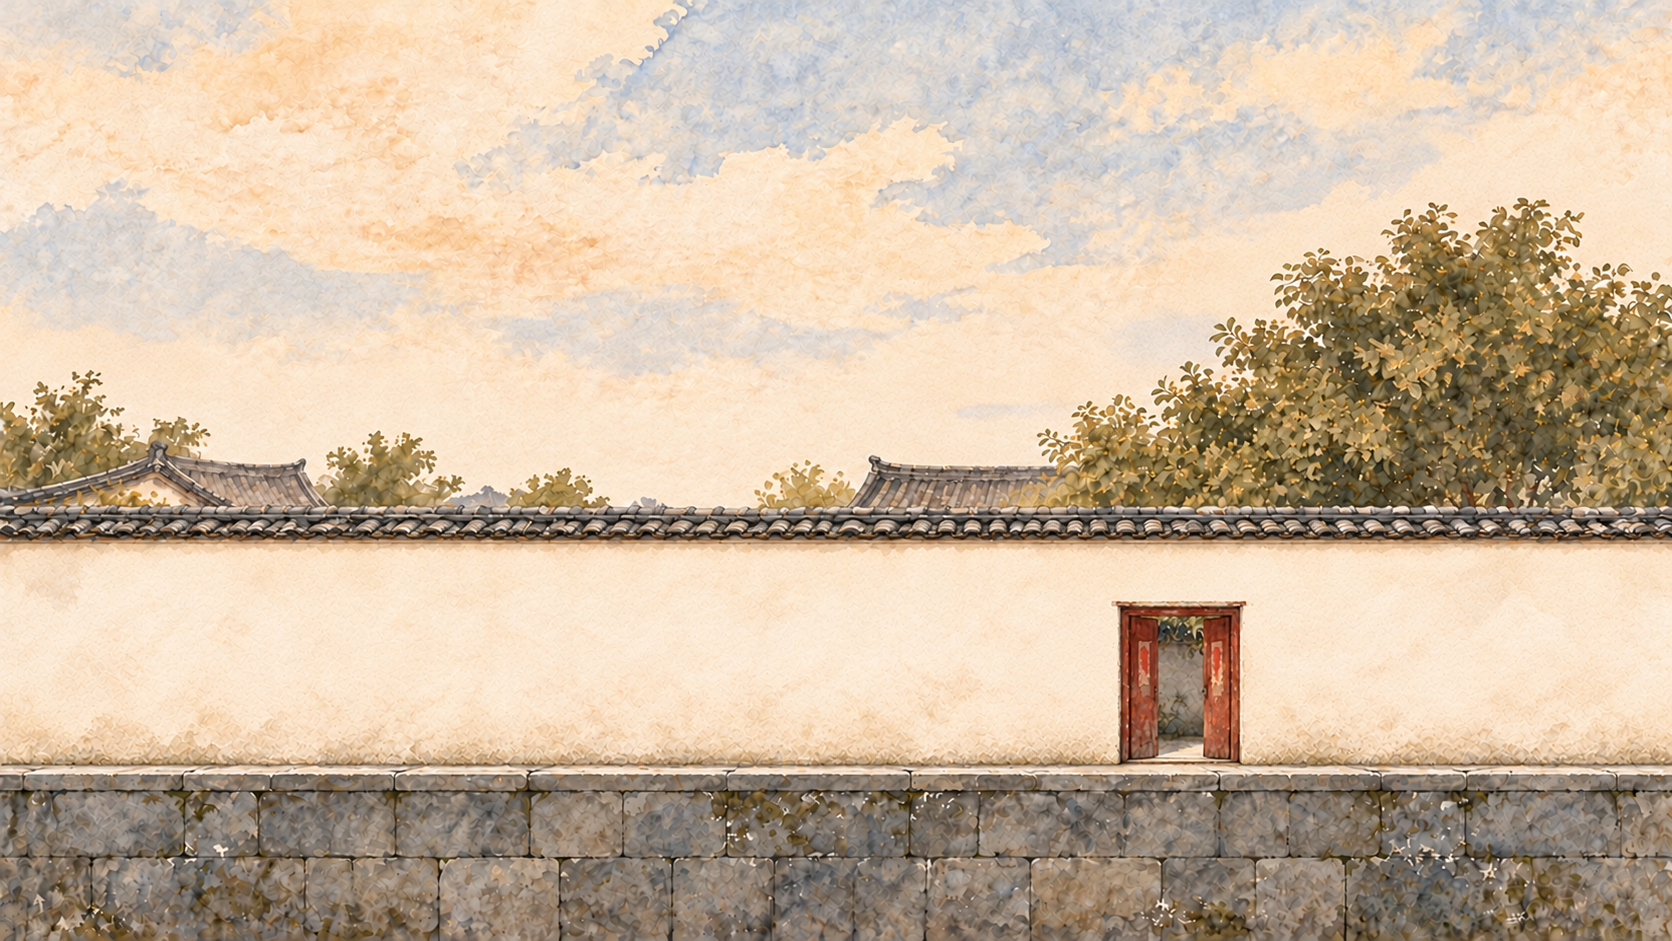
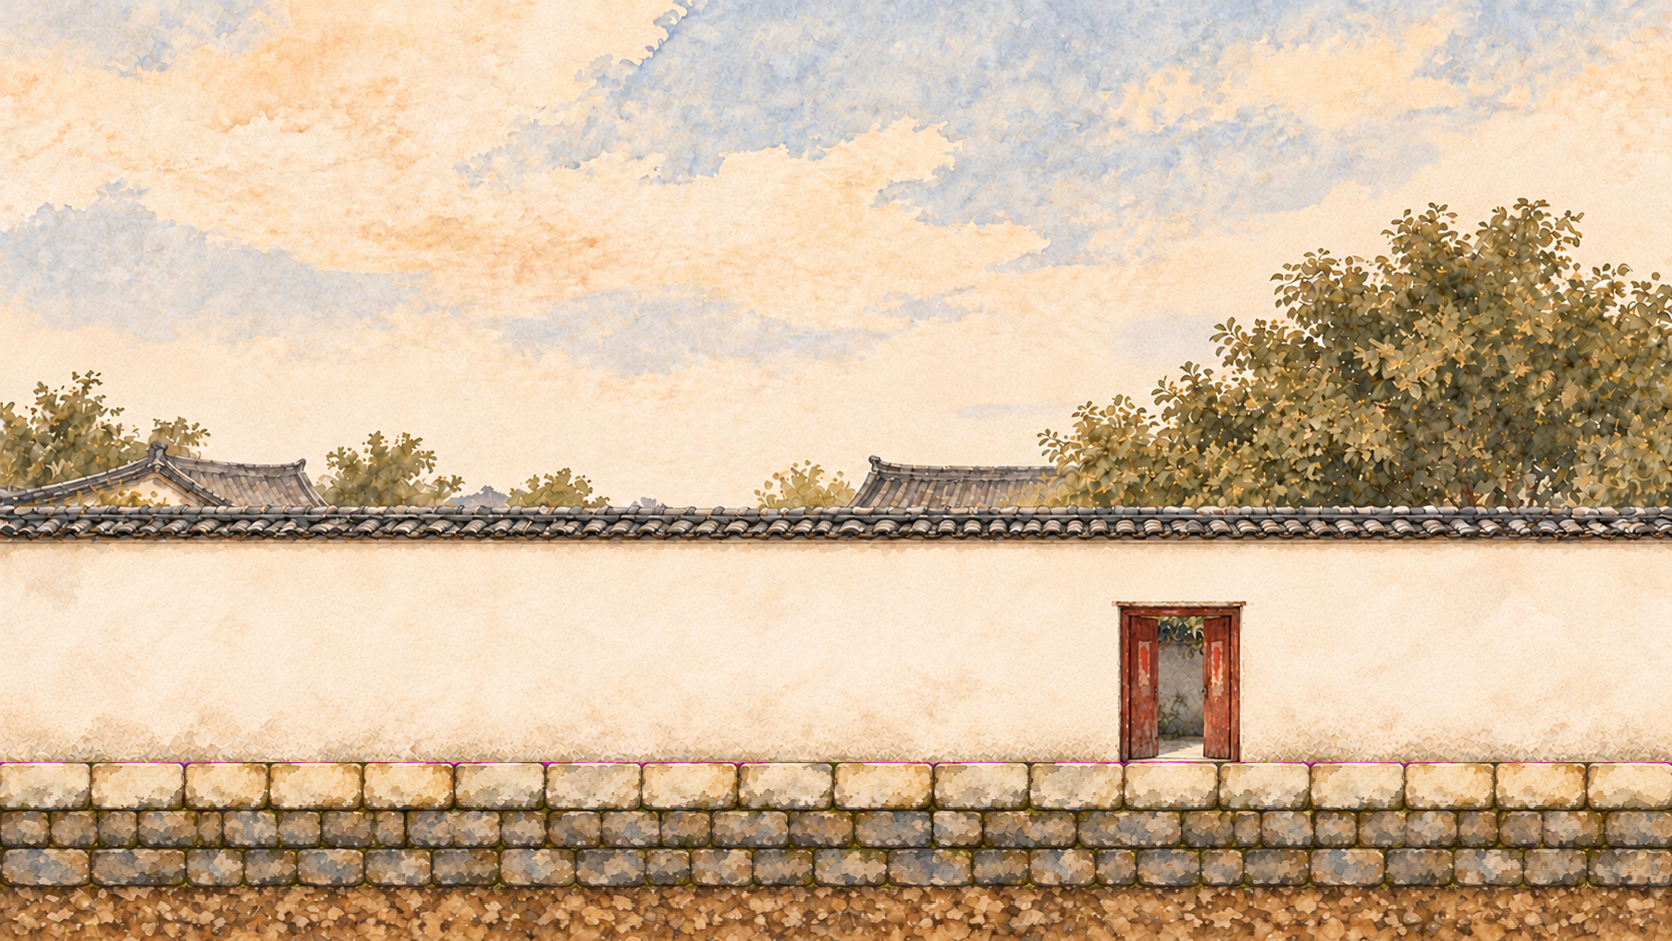
feat(art): bake side-view ground into L00/L01/L02 backdrops
Replace the perspective ground sprite with a hand-painted 2D ground
strip composited below each backdrop's walking line. L00 and L02 keep
separate 1994/2024 variants; L01 uses its shared courtyard backdrop.
Everything above the walking line stays pixel-identical.

Disable the separate ground ArtSkin in the three scenes while keeping
its collider, and add GroundBake2D to re-bake or revert the backdrops.

Changed region(s): [[0.0, 0.8013, 1.0, 1.0]]

diff --git a/Assets/Game/Scripts/EditorTools/GroundBake2D.cs b/Assets/Game/Scripts/EditorTools/GroundBake2D.cs
@@ -1,0 +1,227 @@
+using System.IO;
+using UnityEditor;
+using UnityEditor.SceneManagement;
+using UnityEngine;
+using UnityEngine.SceneManagement;
+
+namespace BorrowTomorrow.EditorTools
+{
+    /// <summary>
+    /// Composites a hand-painted 2D ground strip into the existing backdrop
+    /// images, replacing only the band below the walking line. Everything
+    /// above the line stays pixel-identical.
+    /// </summary>
+    public static class GroundBake2D
+    {
+        private const string StripPath = "ArtRegen_20261029/ground2d/out/PROP_Ground_2D.png";
+        private const string BackupDir = "ArtRegen_20261029/ground2d/backup";
+
+        private sealed class Target
+        {
+            public readonly string Path;
+            public readonly int GroundLineFromBottom;
+            public readonly Color Tint;
+            public Target(string path, int groundLineFromBottom, Color tint)
+            {
+                Path = path;
+                GroundLineFromBottom = groundLineFromBottom;
+                Tint = tint;
+            }
+        }
+
+        private static readonly Target[] Targets =
+        {
+            new Target("Assets/Game/Art/Delivery/Backgrounds_v2/BG_L00_Gate_1994_v2.png", 179, Color.white),
+            new Target("Assets/Game/Art/Delivery/Backgrounds_v2/BG_L00_Gate_2024_v2.png", 179, new Color(0.95f, 0.98f, 1.02f)),
+            new Target("Assets/Game/Art/SampleV1/01_背景_Backgrounds/BG_L01B_CommonArchitecture_v2.png", 322, Color.white),
+            new Target("Assets/Game/Art/Delivery/Backgrounds_v2/BG_L02_Yard_1994_v2.png", 143, Color.white),
+            new Target("Assets/Game/Art/Delivery/Backgrounds_v2/BG_L02_Yard_2024_v2.png", 143, new Color(0.95f, 0.98f, 1.02f)),
+        };
+
+        private static readonly string[] ScenePaths =
+        {
+            "Assets/Game/Scenes/L00_Gate.scene",
+            "Assets/Game/Scenes/L01_TreeCourtyard.scene",
+            "Assets/Game/Scenes/L02_Sewing.scene",
+        };
+
+        [MenuItem("BorrowTomorrow/Visual/Bake 2D Ground Into Backgrounds")]
+        public static void Bake()
+        {
+            if (!File.Exists(StripPath))
+            {
+                Debug.LogError("[GroundBake2D] Missing strip: " + StripPath);
+                return;
+            }
+
+            var strip = LoadTexture(StripPath);
+            if (strip == null) return;
+
+            int lineRow = FindGroundLineRowFromTop(strip);
+            Debug.Log($"[GroundBake2D] Strip {strip.width}x{strip.height}, ground line at row {lineRow} from top.");
+
+            Directory.CreateDirectory(BackupDir);
+            foreach (var target in Targets)
+            {
+                if (!File.Exists(target.Path))
+                {
+                    Debug.LogWarning("[GroundBake2D] Missing background: " + target.Path);
+                    continue;
+                }
+
+                string backup = Path.Combine(BackupDir, Path.GetFileName(target.Path));
+                if (!File.Exists(backup)) File.Copy(target.Path, backup);
+
+                BakeOne(target, strip, lineRow);
+            }
+
+            Object.DestroyImmediate(strip);
+            SetGroundArtVisible(false);
+            AssetDatabase.SaveAssets();
+            Debug.Log("[GroundBake2D] Done.");
+        }
+
+        [MenuItem("BorrowTomorrow/Visual/Revert 2D Ground Bake")]
+        public static void Revert()
+        {
+            foreach (var target in Targets)
+            {
+                string backup = Path.Combine(BackupDir, Path.GetFileName(target.Path));
+                if (!File.Exists(backup))
+                {
+                    Debug.LogWarning("[GroundBake2D] No backup for " + target.Path);
+                    continue;
+                }
+                File.Copy(backup, target.Path, true);
+                AssetDatabase.ImportAsset(target.Path, ImportAssetOptions.ForceUpdate);
+            }
+
+            SetGroundArtVisible(true);
+            AssetDatabase.SaveAssets();
+            Debug.Log("[GroundBake2D] Reverted.");
+        }
+
+        private static Texture2D LoadTexture(string path)
+        {
+            var texture = new Texture2D(2, 2, TextureFormat.RGBA32, false);
+            if (!texture.LoadImage(File.ReadAllBytes(path)))
+            {
+                Debug.LogError("[GroundBake2D] Failed to read " + path);
+                Object.DestroyImmediate(texture);
+                return null;
+            }
+            return texture;
+        }
+
+        private static int FindGroundLineRowFromTop(Texture2D strip)
+        {
+            var pixels = strip.GetPixels32();
+            int width = strip.width;
+            int height = strip.height;
+            int samples = (width + 3) / 4;
+
+            for (int row = 0; row < height; row++)
+            {
+                int y = height - 1 - row;
+                int nonMagenta = 0;
+                for (int x = 0; x < width; x += 4)
+                {
+                    if (!IsMagenta(pixels[y * width + x])) nonMagenta++;
+                }
+                if (nonMagenta > samples * 0.75f) return row;
+            }
+            return 0;
+        }
+
+        private static bool IsMagenta(Color32 c)
+        {
+            return c.r > 190 && c.b > 190 && c.g < 90;
+        }
+
+        private static void BakeOne(Target target, Texture2D strip, int stripLineRowFromTop)
+        {
+            var background = LoadTexture(target.Path);
+            if (background == null) return;
+
+            int bgWidth = background.width;
+            int bgHeight = background.height;
+            float scale = bgWidth / (float)strip.width;
+            int bandHeight = Mathf.Clamp(target.GroundLineFromBottom, 1, bgHeight);
+
+            var bgPixels = background.GetPixels32();
+            var stripPixels = strip.GetPixels32();
+
+            for (int y = 0; y < bandHeight; y++)
+            {
+                // y counts up from the bottom of the background.
+                float stripRow = stripLineRowFromTop + (bandHeight - 1 - y) / scale;
+                int sourceY = Mathf.Clamp(
+                    strip.height - 1 - Mathf.RoundToInt(stripRow),
+                    0,
+                    strip.height - 1);
+
+                for (int x = 0; x < bgWidth; x++)
+                {
+                    float sourceX = (x + 0.5f) / scale - 0.5f;
+                    int x0 = Mathf.Clamp(Mathf.FloorToInt(sourceX), 0, strip.width - 1);
+                    int x1 = Mathf.Clamp(x0 + 1, 0, strip.width - 1);
+                    float t = Mathf.Clamp01(sourceX - x0);
+
+                    Color32 a = stripPixels[sourceY * strip.width + x0];
+                    Color32 b = stripPixels[sourceY * strip.width + x1];
+
+                    // Never paste magenta (or a magenta fringe) over the art.
+                    bool magenta = IsMagenta(a) && IsMagenta(b);
+                    if (magenta) continue;
+
+                    bgPixels[y * bgWidth + x] = new Color32(
+                        (byte)Mathf.Clamp(Mathf.RoundToInt(Mathf.Lerp(a.r, b.r, t) * target.Tint.r), 0, 255),
+                        (byte)Mathf.Clamp(Mathf.RoundToInt(Mathf.Lerp(a.g, b.g, t) * target.Tint.g), 0, 255),
+                        (byte)Mathf.Clamp(Mathf.RoundToInt(Mathf.Lerp(a.b, b.b, t) * target.Tint.b), 0, 255),
+                        255);
+                }
+            }
+
+            background.SetPixels32(bgPixels);
+            background.Apply(false, false);
+            File.WriteAllBytes(target.Path, background.EncodeToPNG());
+            Object.DestroyImmediate(background);
+
+            AssetDatabase.ImportAsset(target.Path, ImportAssetOptions.ForceUpdate);
+            Debug.Log($"[GroundBake2D] Baked {Path.GetFileName(target.Path)} band={bandHeight}px.");
+        }
+
+        private static void SetGroundArtVisible(bool visible)
+        {
+            var active = EditorSceneManager.GetActiveScene();
+            foreach (string path in ScenePaths)
+            {
+                var scene = EditorSceneManager.OpenScene(path, OpenSceneMode.Single);
+                bool changed = false;
+
+                foreach (var root in scene.GetRootGameObjects())
+                {
+                    foreach (var renderer in root.GetComponentsInChildren<SpriteRenderer>(true))
+                    {
+                        if (renderer.sprite == null) continue;
+                        if (!renderer.sprite.name.Contains("Ground")) continue;
+                        if (renderer.transform.parent == null) continue;
+                        if (renderer.transform.parent.name != "Ground") continue;
+
+                        renderer.enabled = visible;
+                        changed = true;
+                    }
+                }
+
+                if (changed)
+                {
+                    EditorSceneManager.MarkSceneDirty(scene);
+                    EditorSceneManager.SaveScene(scene);
+                }
+            }
+
+            if (!string.IsNullOrEmpty(active.path))
+                EditorSceneManager.OpenScene(active.path, OpenSceneMode.Single);
+        }
+    }
+}
